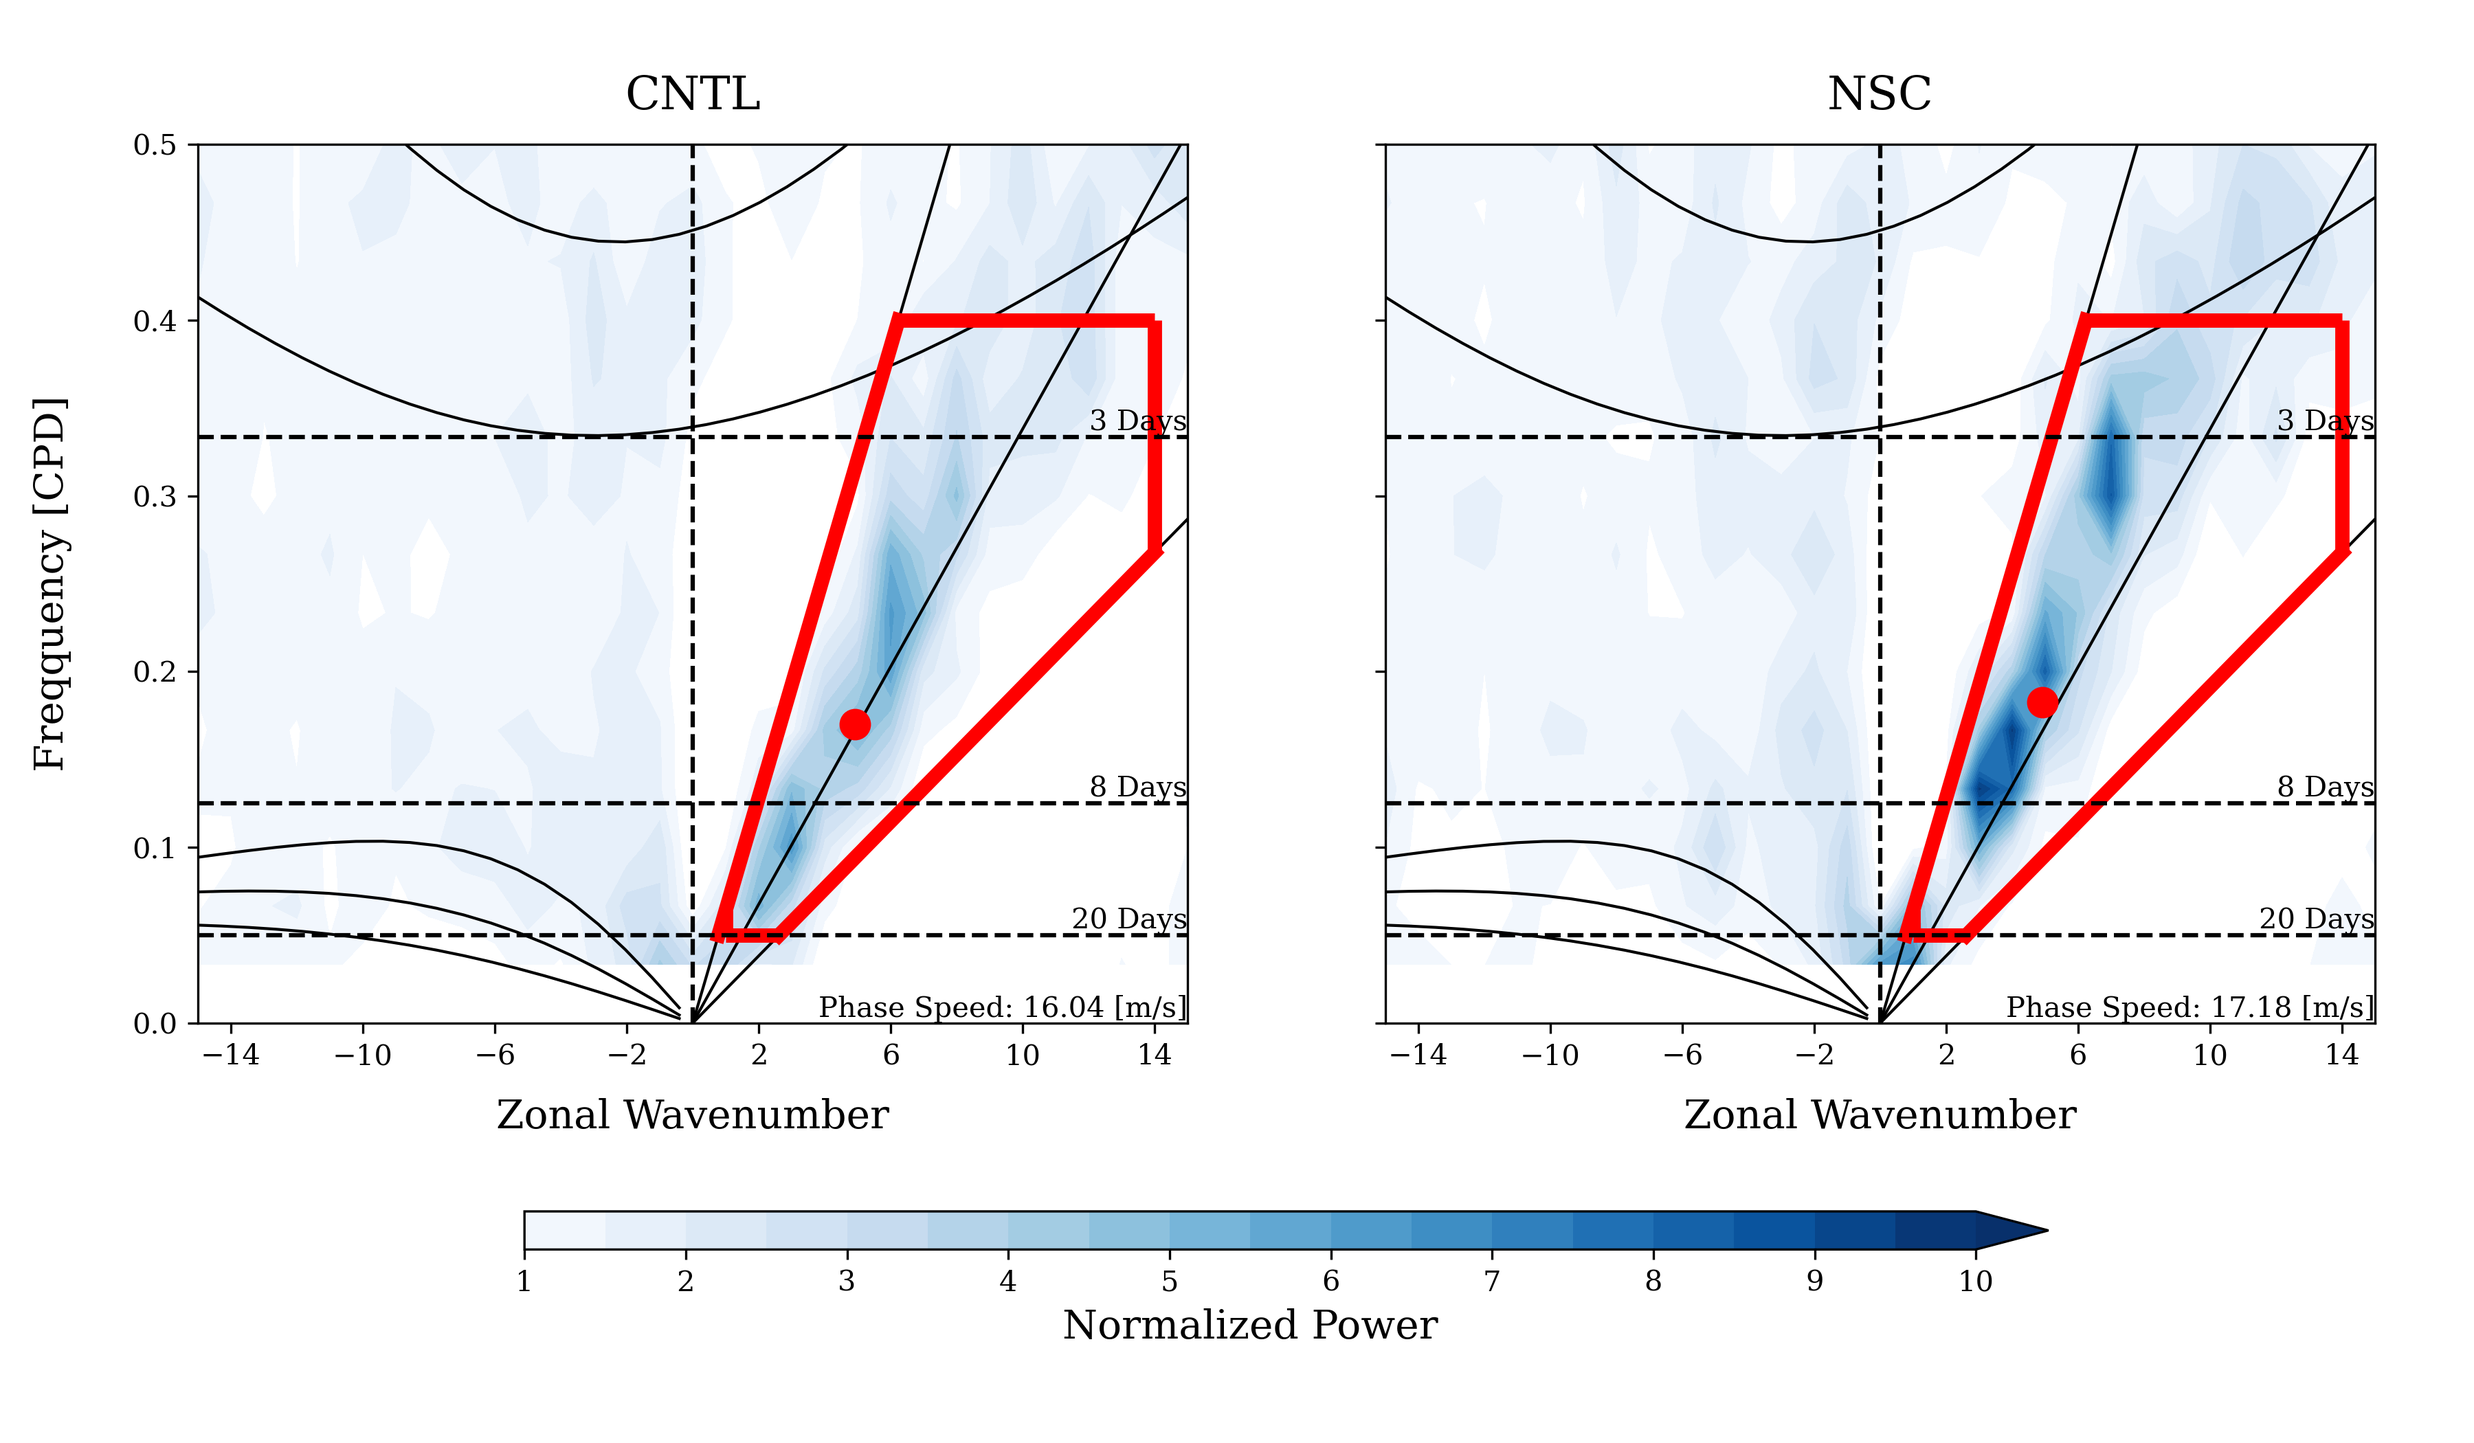
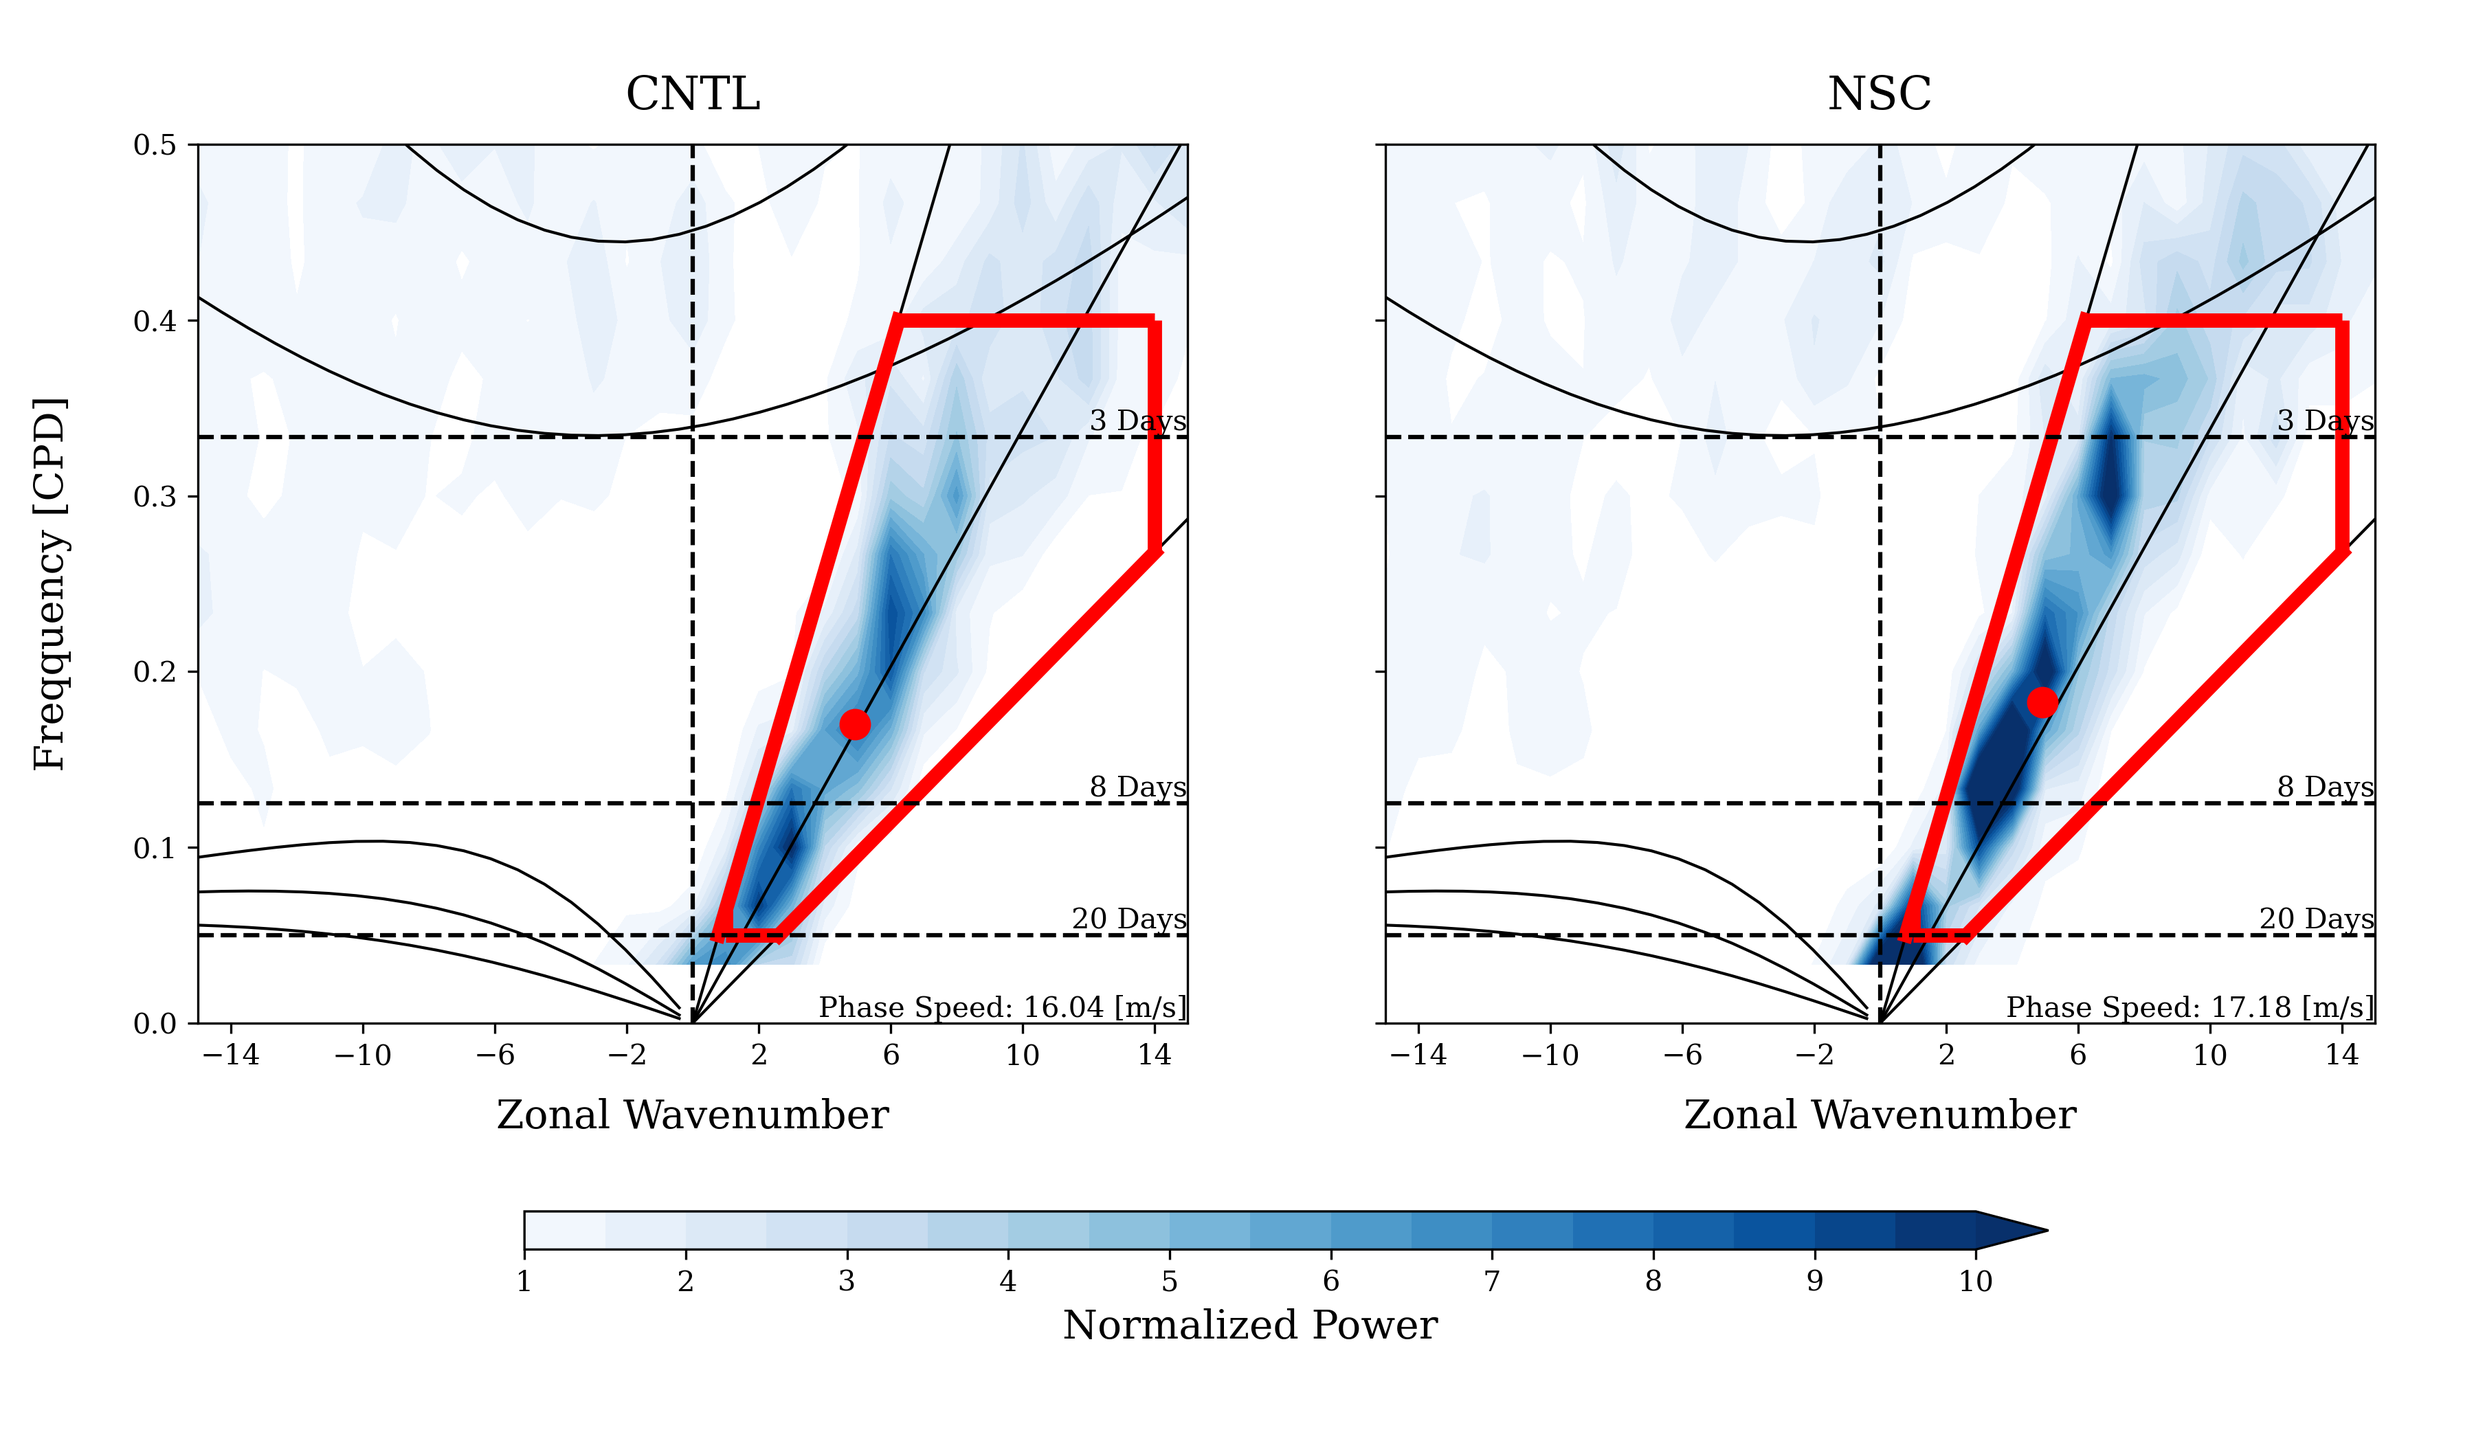
2025/03/27 upload refined power specturm

Changed region(s): [[0.6844, 0.2167, 0.9022, 0.681], [0.2489, 0.2786, 0.4044, 0.681], [0.7156, 0.3714, 0.7467, 0.4024]]

diff --git a/CNTL_NSC/moist_strat.py b/CNTL_NSC/moist_strat.py
@@ -35,20 +35,20 @@ with nc.Dataset(f"{path}NSC/qv.nc", "r") as f:
     data["nsc_qv"] = f.variables["qv"][:, :, lat_lim, :] * 1000.;
 
 # # Load Selected Events
-with open("/home/b11209013/Bachelor_Thesis/Major/CCKWs_Selection/CNTL_comp.pkl", "rb") as f:
+with open("/home/b11209013/Bachelor_Thesis/CCKWs_Selection/CNTL_comp.pkl", "rb") as f:
     cntl_comp = pkl.load(f);
 
-with open("/home/b11209013/Bachelor_Thesis/Major/CCKWs_Selection/NSC_comp.pkl", "rb") as f:
+with open("/home/b11209013/Bachelor_Thesis/CCKWs_Selection/NSC_comp.pkl", "rb") as f:
     nsc_comp = pkl.load(f);
 
 sel_lon: dict[str, np.ndarray] = dict(
     cntl=np.array(cntl_comp["sel_lon"]),
-    nsc =np.array(nsc_comp["sel_lon"]),
+    nsc=np.array(nsc_comp["sel_lon"]),
 );
 
 sel_time: dict[str, np.ndarray] = dict(
     cntl=np.array(cntl_comp["sel_time"]),
-    nsc =np.array(nsc_comp["sel_time"]),
+    nsc=np.array(nsc_comp["sel_time"]),
 );
 
 # %% Section 3
@@ -61,7 +61,7 @@ qv_mean = dict(
 
 w_rm_cli: dict[str, np.ndarray] = dict(
     cntl = (data["cntl_w"] - np.mean(data["cntl_w"], axis=(0, 2, 3), keepdims=True)).mean(axis=2),
-    nsc  = (data["nsc_w"]  - np.mean(data["nsc_w"], axis=(0, 2, 3), keepdims=True)).mean(axis=2),
+    nsc  = (data["nsc_w"]  - np.mean(data["nsc_w"] , axis=(0, 2, 3), keepdims=True)).mean(axis=2),
 );
 
 # # Select Events
@@ -79,12 +79,12 @@ data_sel: dict[str, np.ndarray] = dict(
 # compute vertical gradient in CCKWs
 qv_grad = dict(
     cntl = np.gradient(qv_mean["cntl"], dims["lev"]*100.),
-    nsc  = np.gradient(qv_mean["nsc"] , dims["lev"]*100.)
+    nsc  = np.gradient(qv_mean["nsc"], dims["lev"]*100.)
 )
 
 vertical_conv = dict(
     cntl = data_sel["cntl_w"]*qv_grad["cntl"][:, None],
-    nsc  = data_sel["nsc_w"]*qv_grad["nsc"][:, None]
+    nsc = data_sel["nsc_w"]*qv_grad["nsc"][:, None]
 ) 
 
 daily_vconv = dict(
@@ -93,16 +93,31 @@ daily_vconv = dict(
 )
 plt.rcParams["font.family"]="serif"
 
-plt.plot(qv_mean["cntl"], dims["lev"], color="blue", label="CNTL")
-plt.plot(qv_mean["nsc"], dims["lev"], color="red", label="NSC")
-plt.xlim(10, 17)
-plt.yscale("log")
-plt.yticks(np.linspace(800, 1000, 11), np.linspace(800, 1000, 11, dtype=int))
-plt.ylim(1000, 800)
-plt.xlabel(r"$q_v$ [g/kg]", fontsize=14)
-plt.ylabel(r"Level [hPa]", fontsize=14)
-plt.legend()
-plt.savefig("/home/b11209013/Bachelor_Thesis/Major/Figure/Appendix04.png", dpi=300)
+fig, ax = plt.subplots(1, 2, figsize=(17, 6), sharey=True)
+
+ax[0].plot(qv_mean["cntl"], dims["lev"], color="blue", label="CNTL")
+ax[0].plot(qv_mean["nsc"] , dims["lev"], color="red", label="NCRF")
+ax[0].set_xlim(0, 17)
+ax[0].set_ylim(1000, 400)
+ax[0].set_yscale("log")
+ax[0].set_yticks(np.linspace(1000, 400, 7), np.linspace(1000, 400, 7, dtype=int))
+ax[0].set_xlabel(r"$q_v$ [g/kg]", fontsize=14)
+ax[0].set_ylabel(r"Level [hPa]", fontsize=14)
+ax[0].set_title("(a) Mean (x, y, t) Moisture Profile of CNTL(b) and NSC(r)", fontsize=14)
+ax[0].legend()
+
+ax[1].plot(qv_grad["cntl"]*1e4, dims["lev"], color="blue", label="CNTL")
+ax[1].plot(qv_grad["nsc"]*1e4, dims["lev"], color="red", label="NSC")
+ax[1].set_xlim(0, 6)
+#plt.xlim(10, 17)
+#ax[1].set_yscale("log")
+#ax[1].set_yticks(np.linspace(800, 1000, 11), np.linspace(800, 1000, 11, dtype=int))
+#ax[1].set_ylim(1000, 400)
+ax[1].set_xlabel(r"$\frac{\partial q_v}{\partial p} [\times 10^{4} g/kg/Pa]$", fontsize=14)
+#ax[1].set_ylabel(r"Level [hPa]", fontsize=14)
+ax[1].set_title("(b) Vertical Gradient of Moisture Profile of CNTL(b) and NSC(r)", fontsize=14)
+ax[1].legend()
+plt.savefig("/home/b11209013/Bachelor_Thesis/Figure/NSC_moist.png", dpi=300)
 plt.show()
 
 
@@ -119,10 +134,11 @@ plt.bar(np.linspace(-2.5, 2.5, 6)[pos], diff[pos], color="red", width=0.2)
 plt.bar(np.linspace(-2.5, 2.5, 6)[neg], diff[neg], color="blue", width=0.2)
 plt.axhline(0, linestyle="--", color="black")
 plt.xlim(-3, 3)
-plt.ylim(-6e-7, 6e-7)
+plt.ylim(-8e-7, 8e-7)
 plt.xlabel("Lag days")
-plt.ylabel("Vertical Moisture Convergence")
-plt.savefig("/home/b11209013/Bachelor_Thesis/Major/Figure/Appendix05.png", dpi=300)
+plt.ylabel("Vertical Moisture Advection (K/day)")
+plt.title(r"Difference Vertical Moisture Advection (NSC - CNTL) ($w^\prime \frac{\partial \overline{q_v}}{\partial p}$)")
+plt.savefig("/home/b11209013/Bachelor_Thesis/Figure/NSC_vadv.png", dpi=300)
 plt.show()
 
 print((vert_int(daily_vconv["nsc"]) - vert_int(daily_vconv["cntl"])).sum())

diff --git a/CNTL_NSC/Power_Spectrum.py b/CNTL_NSC/Power_Spectrum.py
@@ -138,11 +138,11 @@ def background(data, nsmooth=20):
     return data
 
 bg: np.ndarray = background(
-    (sym_ps_weight["cntl"] + asy_ps_weight["cntl"])/2
+    np.fft.fftshift((sym_ps_weight["cntl"] + asy_ps_weight["cntl"])/2)
 );
 
 sym_peak: dict[str, np.ndarray] = dict(
-    (exp, sym_ps_weight[exp] / bg)
+    (exp, np.fft.fftshift(sym_ps_weight[exp]) / bg)
     for exp in data.keys()
 );
 
@@ -171,6 +171,13 @@ fr_cntl: float = np.sum(frm[kelvin_cond] * sym_ps_weight["cntl"][kelvin_cond]) /
 wn_nsc: float = np.sum(wnm[kelvin_cond] * sym_ps_weight["nsc"][kelvin_cond]) / np.sum(sym_ps_weight["nsc"][kelvin_cond]);
 fr_nsc: float = np.sum(frm[kelvin_cond] * sym_ps_weight["nsc"][kelvin_cond]) / np.sum(sym_ps_weight["nsc"][kelvin_cond]);
 
+print( sym_ps_weight["nsc"][kelvin_cond].sum())
+print( sym_ps_weight["cntl"][kelvin_cond].sum())
+plt.contourf(wn_v, fr_v, np.log(np.fft.fftshift(sym_ps_weight["cntl"])));
+plt.xlim(-15, 15)
+plt.ylim(0, 0.5)
+plt.colorbar()
+plt.show()
 phase_speed = lambda wn, fr: fr / wn * (2*np.pi*6.371e6) / 86400;
 
 cntl_speed: float = phase_speed(wn_cntl, fr_cntl);
@@ -214,7 +221,7 @@ fig, ax = plt.subplots(1, 2, figsize=(12, 7), sharey=True);
 plt.subplots_adjust(left=0.08, right=0.96, bottom=0.03, top=0.9);
 cntl_ps = ax[0].contourf(
     wn_v, fr_v[fr_v>0],
-    np.fft.fftshift(sym_peak["cntl"])[fr_v>0],
+    (sym_peak["cntl"])[fr_v>0],
     cmap="Blues",
     levels=np.linspace(1, 10, 19),
     extend="max",
@@ -230,7 +237,7 @@ ax[0].text(0, 0.52, "CNTL", ha="center", fontsize=16)
 
 nsc_ps = ax[1].contourf(
     wn_v, fr_v[fr_v>0],
-    np.fft.fftshift(sym_peak["nsc"])[fr_v>0],
+    (sym_peak["nsc"])[fr_v>0],
     cmap="Blues",
     levels=np.linspace(1, 10, 19),
     extend="max",
@@ -246,7 +253,7 @@ ax[1].text(0, 0.52, "NSC", ha="center", fontsize=16)
 cbar = plt.colorbar(nsc_ps, ax=ax, orientation="horizontal", aspect=40, shrink=0.7)
 cbar.set_label("Normalized Power", fontsize=14);
 
-plt.savefig("/home/b11209013/Bachelor_Thesis/Major/Figure/Figure06.png", dpi=300);
+plt.savefig("/home/b11209013/Bachelor_Thesis/Figure/Figure06.png", dpi=300);
 plt.show();
 
 
@@ -257,7 +264,7 @@ cntl_ps = ax[0].contourf(
     wn_v, fr_v[fr_v>0],
     np.log(np.fft.fftshift(sym_ps_weight["cntl"])[fr_v>0]),
     cmap="Blues",
-    levels=np.linspace(-7, 0, 15),
+    levels=np.linspace(-7, -1, 13),
     extend="min",
 );
 plot_lines(ax[0], wn_ana, fr_ana);
@@ -272,10 +279,10 @@ plt.colorbar(cntl_ps, ax=ax[0], orientation="horizontal", aspect=30, shrink=0.7)
 
 nsc_ps = ax[1].contourf(
     wn_v, fr_v[fr_v>0],
-    np.log(np.fft.fftshift(sym_peak["nsc"])[fr_v>0]),
+    np.log(np.fft.fftshift(sym_ps_weight["nsc"])[fr_v>0]),
     cmap="Blues",
-    levels=np.linspace(0, 3, 16),
-    extend="max",
+    levels=np.linspace(-7, -1, 13),
+    extend="min",
 );
 plot_lines(ax[1], wn_ana, fr_ana);
 ax[1].text(15, 0, f"Phase Speed: {nsc_speed:.2f} [m/s]", ha="right", va="bottom");
@@ -286,9 +293,9 @@ ax[1].set_ylim(0, 1/2);
 ax[1].text(0, 0.52, "NSC", ha="center", fontsize=16)
 
 cbar = plt.colorbar(nsc_ps, ax=ax[1], orientation="horizontal", aspect=40, shrink=0.7)
-cbar.set_ticks(np.linspace(0, 3, 4));
+cbar.set_ticks(np.linspace(-7, -1, 7));
 cbar.set_label("Normalized Power", fontsize=14);
 
-plt.savefig("/home/b11209013/Bachelor_Thesis/Major/Figure/Appendix02.png", dpi=300);
+plt.savefig("/home/b11209013/Bachelor_Thesis/Figure/Appendix02.png", dpi=300);
 plt.show();
 # %%

diff --git a/CNTL_NCRF/Power_Spectrum.py b/CNTL_NCRF/Power_Spectrum.py
@@ -138,13 +138,19 @@ def background(data, nsmooth=20):
     return data
 
 bg: np.ndarray = background(
-    (sym_ps_weight["cntl"] + asy_ps_weight["cntl"])/2
+   np.fft.fftshift((sym_ps_weight["cntl"] + asy_ps_weight["cntl"])/2)
 );
 
 sym_peak: dict[str, np.ndarray] = dict(
-    (exp, sym_ps_weight[exp] / bg)
+    (exp, np.fft.fftshift(sym_ps_weight[exp]) / bg)
     for exp in data.keys()
 );
+
+plt.contourf(np.log10(bg), 10);
+plt.xlim(345 ,375)
+plt.ylim(40, 80);
+plt.colorbar()
+plt.show()
 
 wn: np.ndarray = (np.fft.fftfreq(llon, d=1/llon).astype(int));
 fr: np.ndarray = (np.fft.fftfreq(lsec, d=1/4));
@@ -214,7 +220,7 @@ fig, ax = plt.subplots(1, 2, figsize=(12, 7), sharey=True);
 plt.subplots_adjust(left=0.08, right=0.96, bottom=0.03, top=0.9);
 cntl_ps = ax[0].contourf(
     wn_v, fr_v[fr_v>0],
-    np.fft.fftshift(sym_peak["cntl"])[fr_v>0],
+    (sym_peak["cntl"])[fr_v>0],
     cmap="Blues",
     levels=np.linspace(1, 10, 19),
     extend="max",
@@ -230,7 +236,7 @@ ax[0].text(0, 0.52, "CNTL", ha="center", fontsize=16)
 
 nsc_ps = ax[1].contourf(
     wn_v, fr_v[fr_v>0],
-    np.fft.fftshift(sym_peak["ncrf"])[fr_v>0],
+    (sym_peak["ncrf"])[fr_v>0],
     cmap="Blues",
     levels=np.linspace(1, 10, 19),
     extend="max",
@@ -246,7 +252,7 @@ ax[1].text(0, 0.52, "NCRF", ha="center", fontsize=16)
 cbar = plt.colorbar(nsc_ps, ax=ax, orientation="horizontal", aspect=40, shrink=0.7)
 cbar.set_label("Normalized Power", fontsize=14);
 
-plt.savefig("/home/b11209013/Bachelor_Thesis/Major/Figure/Figure04.png", dpi=300);
+#plt.savefig("/home/b11209013/Bachelor_Thesis/Major/Figure/Figure04.png", dpi=300);
 plt.show();
 
 
@@ -271,10 +277,10 @@ plt.colorbar(cntl_ps, ax=ax[0], orientation="horizontal", aspect=30, shrink=0.7)
 
 nsc_ps = ax[1].contourf(
     wn_v, fr_v[fr_v>0],
-    np.log(np.fft.fftshift(sym_peak["ncrf"])[fr_v>0]),
+    np.log(np.fft.fftshift(sym_ps_weight["ncrf"])[fr_v>0]),
     cmap="Blues",
-    levels=np.linspace(0, 3, 16),
-    extend="max",
+    levels=np.linspace(-7, 0, 15),
+    extend="min",
 );
 plot_lines(ax[1], wn_ana, fr_ana);
 ax[1].text(15, 0, f"Phase Speed: {ncrf_speed:.2f} [m/s]", ha="right", va="bottom");
@@ -285,9 +291,9 @@ ax[1].set_ylim(0, 1/2);
 ax[1].text(0, 0.52, "NCRF", ha="center", fontsize=16)
 
 cbar = plt.colorbar(nsc_ps, ax=ax[1], orientation="horizontal", aspect=40, shrink=0.7)
-cbar.set_ticks(np.linspace(0, 3, 4));
+#cbar.set_ticks(np.linspace(0, 3, 4));
 cbar.set_label("Normalized Power", fontsize=14);
 
-plt.savefig("/home/b11209013/Bachelor_Thesis/Major/Figure/Appendix01.png", dpi=300);
+#plt.savefig("/home/b11209013/Bachelor_Thesis/Major/Figure/Appendix01.png", dpi=300);
 plt.show();
 

diff --git a/CNTL_NCRF/moist_strat.py b/CNTL_NCRF/moist_strat.py
@@ -35,10 +35,10 @@ with nc.Dataset(f"{path}NCRF/qv.nc", "r") as f:
     data["ncrf_qv"] = f.variables["qv"][:, :, lat_lim, :] * 1000.;
 
 # # Load Selected Events
-with open("/home/b11209013/Bachelor_Thesis/Major/CCKWs_Selection/CNTL_comp.pkl", "rb") as f:
+with open("/home/b11209013/Bachelor_Thesis/CCKWs_Selection/CNTL_comp.pkl", "rb") as f:
     cntl_comp = pkl.load(f);
 
-with open("/home/b11209013/Bachelor_Thesis/Major/CCKWs_Selection/NCRF_comp.pkl", "rb") as f:
+with open("/home/b11209013/Bachelor_Thesis/CCKWs_Selection/NCRF_comp.pkl", "rb") as f:
     ncrf_comp = pkl.load(f);
 
 sel_lon: dict[str, np.ndarray] = dict(
@@ -113,11 +113,11 @@ ax[1].set_xlim(0, 5)
 #ax[1].set_yscale("log")
 #ax[1].set_yticks(np.linspace(800, 1000, 11), np.linspace(800, 1000, 11, dtype=int))
 #ax[1].set_ylim(1000, 400)
-ax[1].set_xlabel(r"$\frac{\partial q_v}{\partial z}$ [g/kg]", fontsize=14)
+ax[1].set_xlabel(r"$\frac{\partial q_v}{\partial p} [\times 10^{4} g/kg/Pa]$", fontsize=14)
 #ax[1].set_ylabel(r"Level [hPa]", fontsize=14)
 ax[1].set_title("(b) Vertical Gradient of Moisture Profile of CNTL(b) and NCRF(r)", fontsize=14)
 ax[1].legend()
-#plt.savefig("/home/b11209013/Bachelor_Thesis/Major/Figure/Appendix04.png", dpi=300)
+plt.savefig("/home/b11209013/Bachelor_Thesis/Figure/NCRF_moist.png", dpi=300)
 plt.show()
 
 
@@ -134,10 +134,11 @@ plt.bar(np.linspace(-2.5, 2.5, 6)[pos], diff[pos], color="red", width=0.2)
 plt.bar(np.linspace(-2.5, 2.5, 6)[neg], diff[neg], color="blue", width=0.2)
 plt.axhline(0, linestyle="--", color="black")
 plt.xlim(-3, 3)
-plt.ylim(-6e-7, 6e-7)
+plt.ylim(-8e-7, 8e-7)
 plt.xlabel("Lag days")
-plt.ylabel("Vertical Moisture Convergence")
-# plt.savefig("/home/b11209013/Bachelor_Thesis/Major/Figure/Appendix05.png", dpi=300)
+plt.ylabel("Vertical Moisture Advection (K/day)")
+plt.title(r"Difference Vertical Moisture Advection (NCRF - CNTL) ($w^\prime \frac{\partial \overline{q_v}}{\partial p}$)")
+plt.savefig("/home/b11209013/Bachelor_Thesis/Figure/NCRF_vadv.png", dpi=300)
 plt.show()
 
 print((vert_int(daily_vconv["ncrf"]) - vert_int(daily_vconv["cntl"])).sum())
